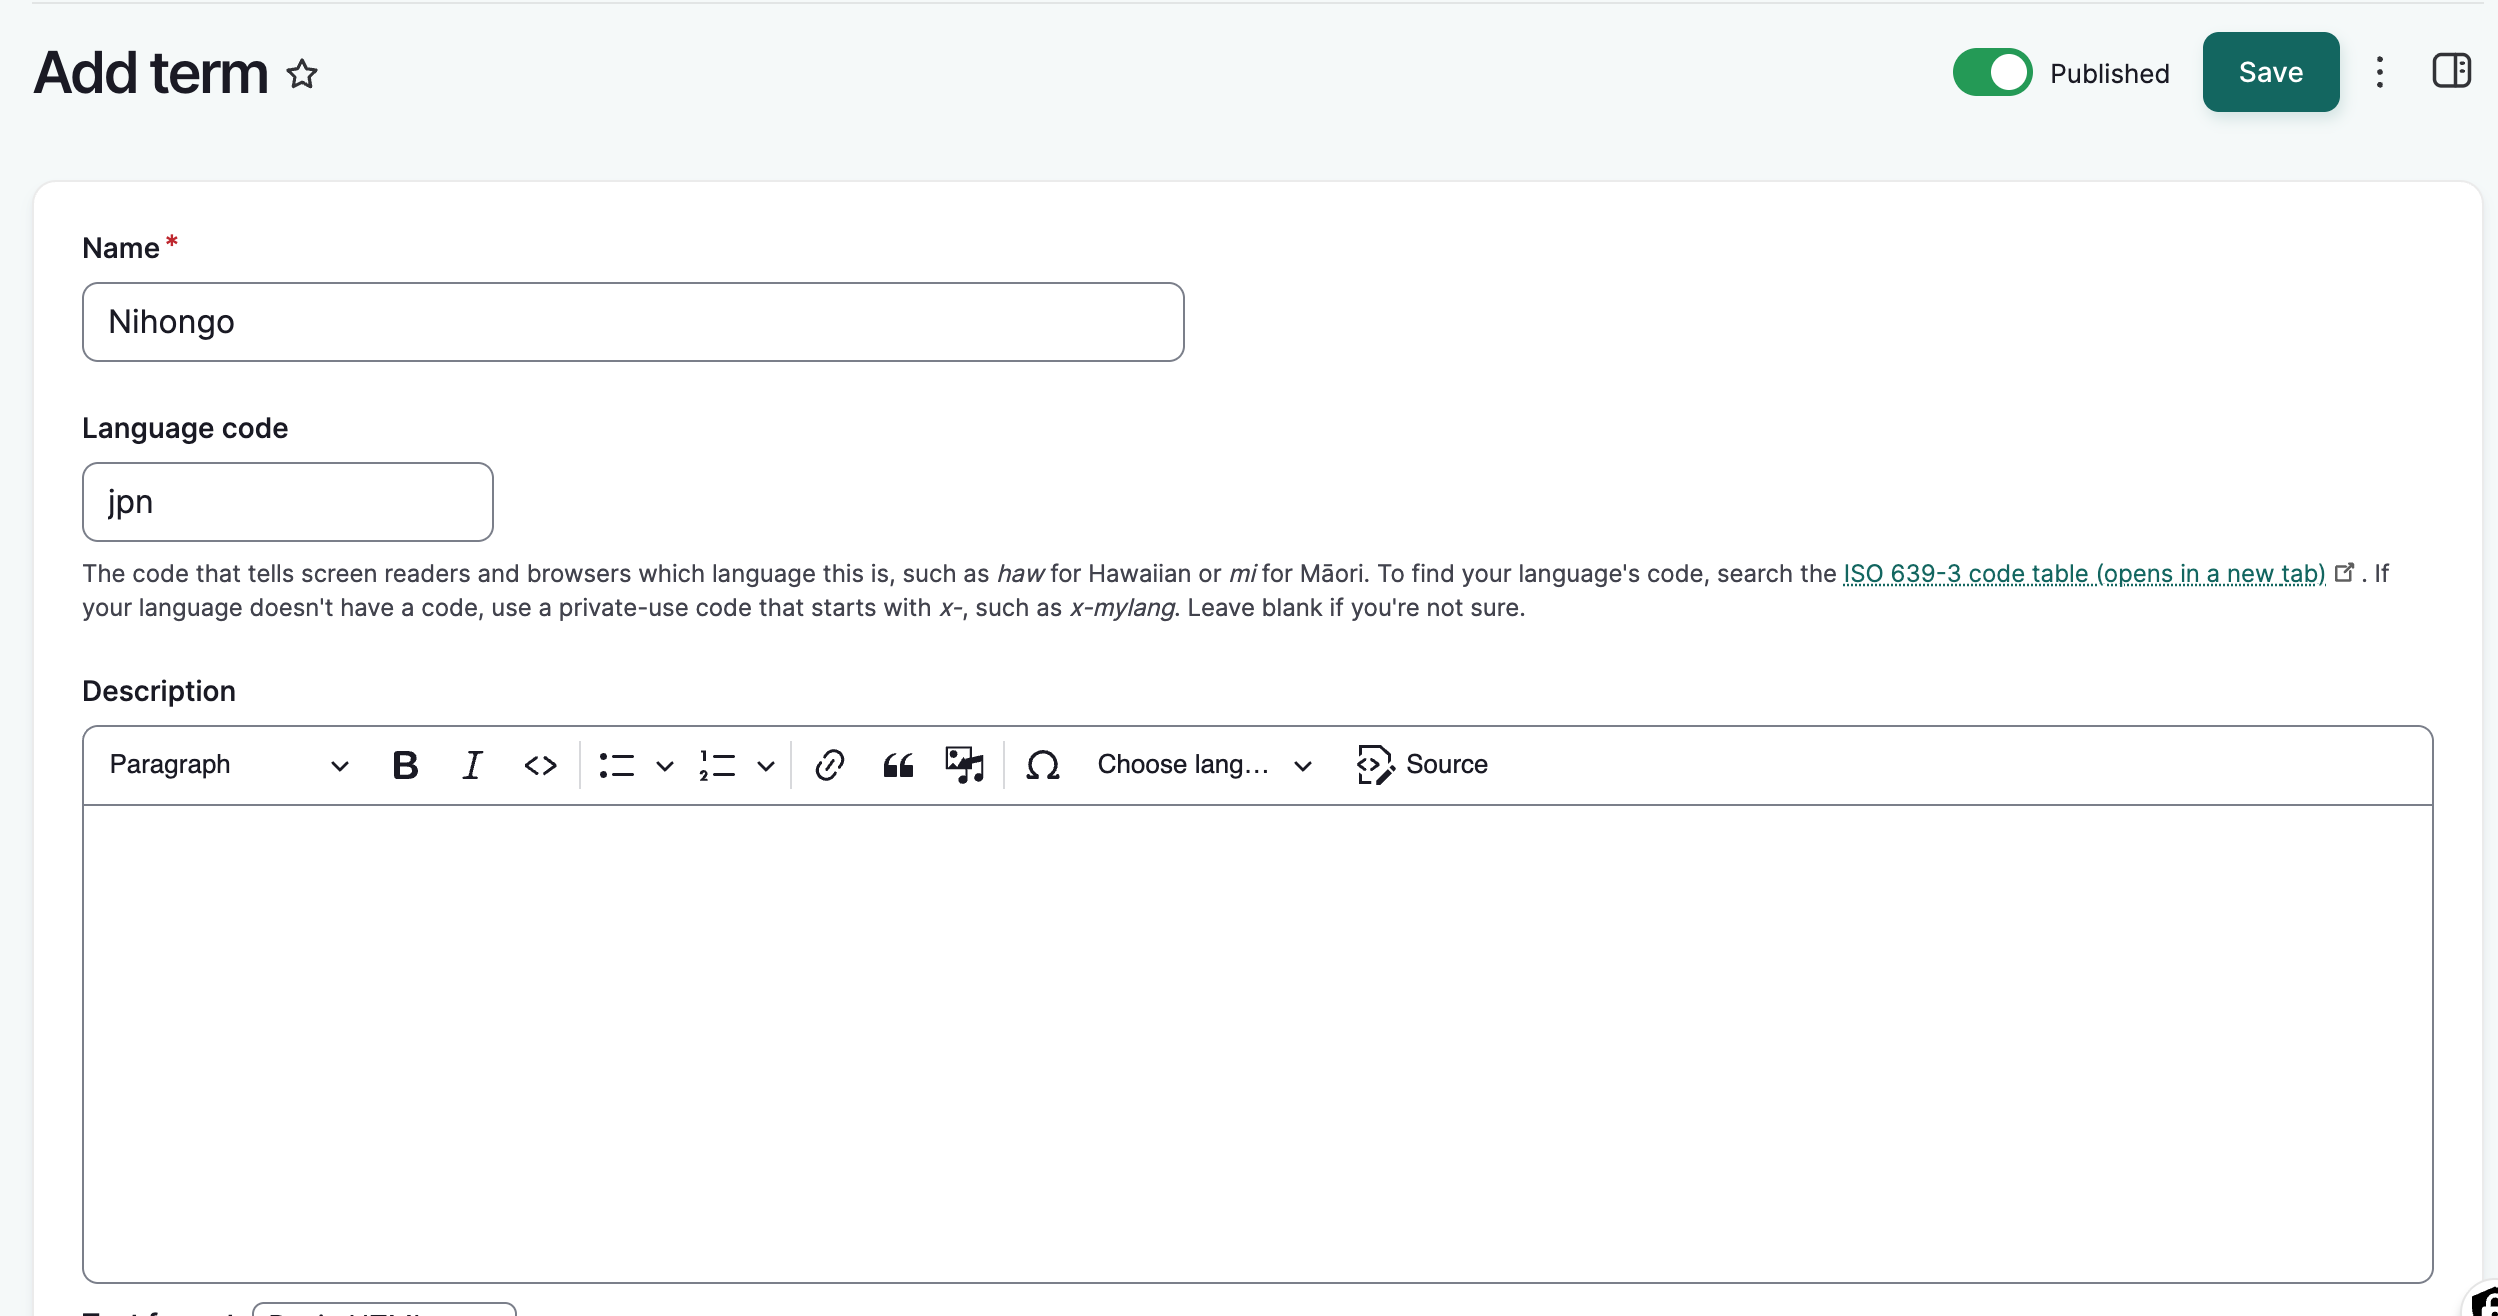
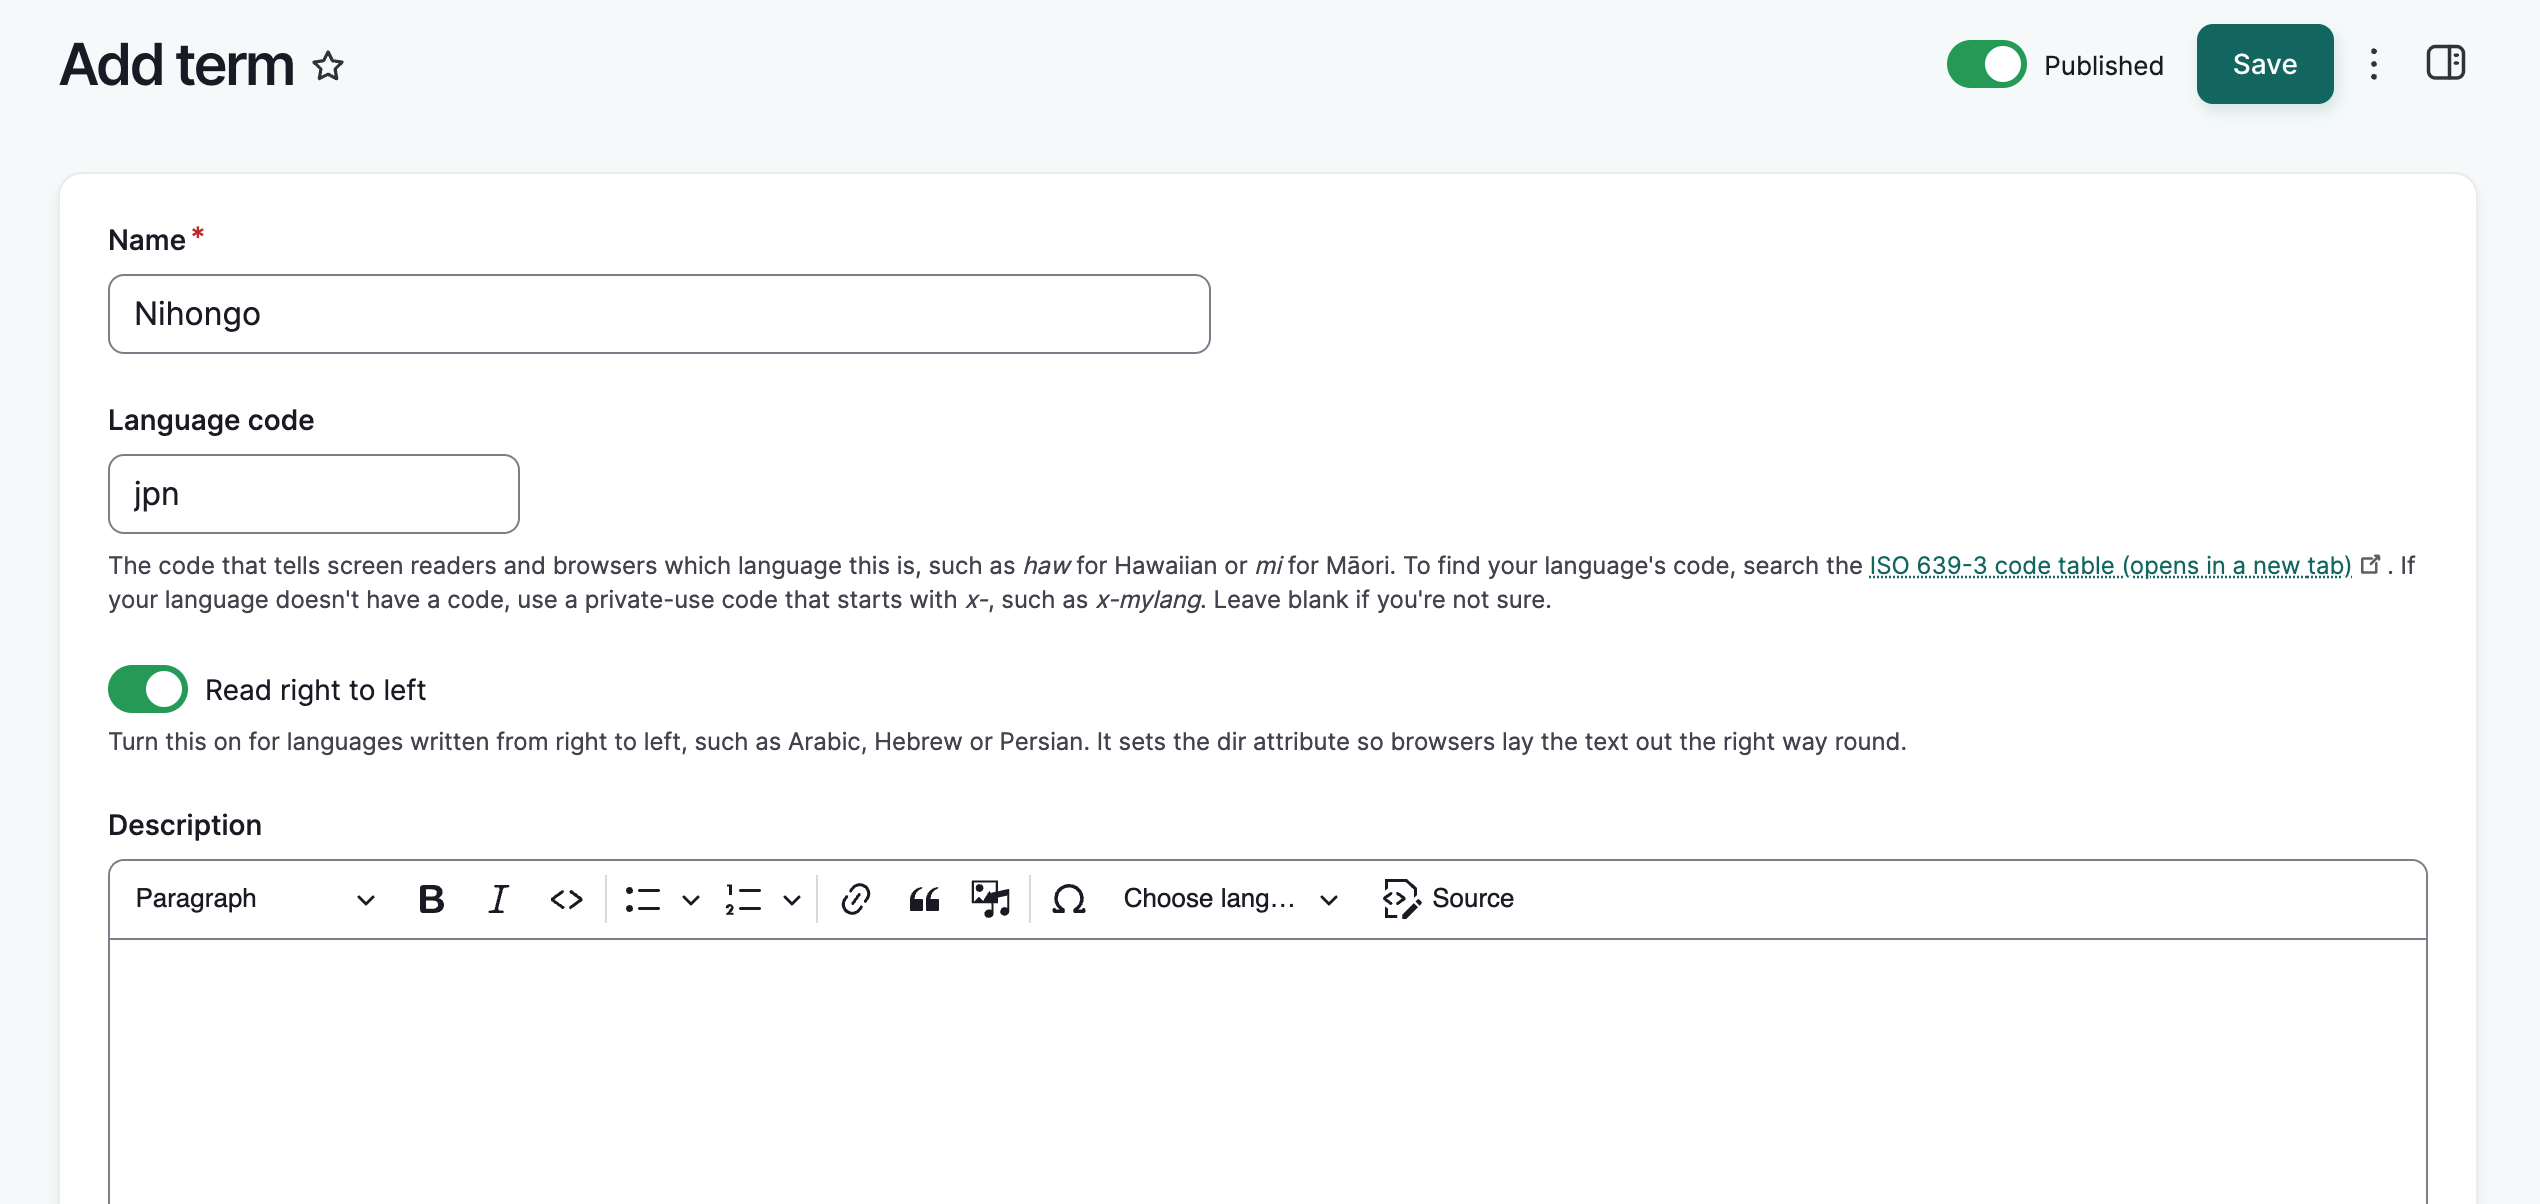
Update to configure the dictionary
Included the Read right to left toggle

diff --git a/docs/dictionary/ConfigureTheDictionary.md b/docs/dictionary/ConfigureTheDictionary.md
@@ -38,6 +38,8 @@ In the *Name* field enter the language name as you want it to appear on the site
 
 You can also add a *language code*, which tells screen readers and browsers what language this is. To find your language's code, search the [ISO 639-3 code table](https://iso639-3.sil.org/code_tables/639/data). If your language doesn't have a code, use a private-use code that starts with x-, such as x-mylang. Leave blank if you're not sure.
 
+If your language reads right to left (i.e. Arabic, Hebrew or Persian) enable the *Read right to left* toggle so that the language is laid out correctly.
+
 The *Description* field is optional, and can include information about the language, i.e., its history, regions where the language is spoken, related languages and dialects, etc. This will be displayed in the language's term page.
 
 When ready:
